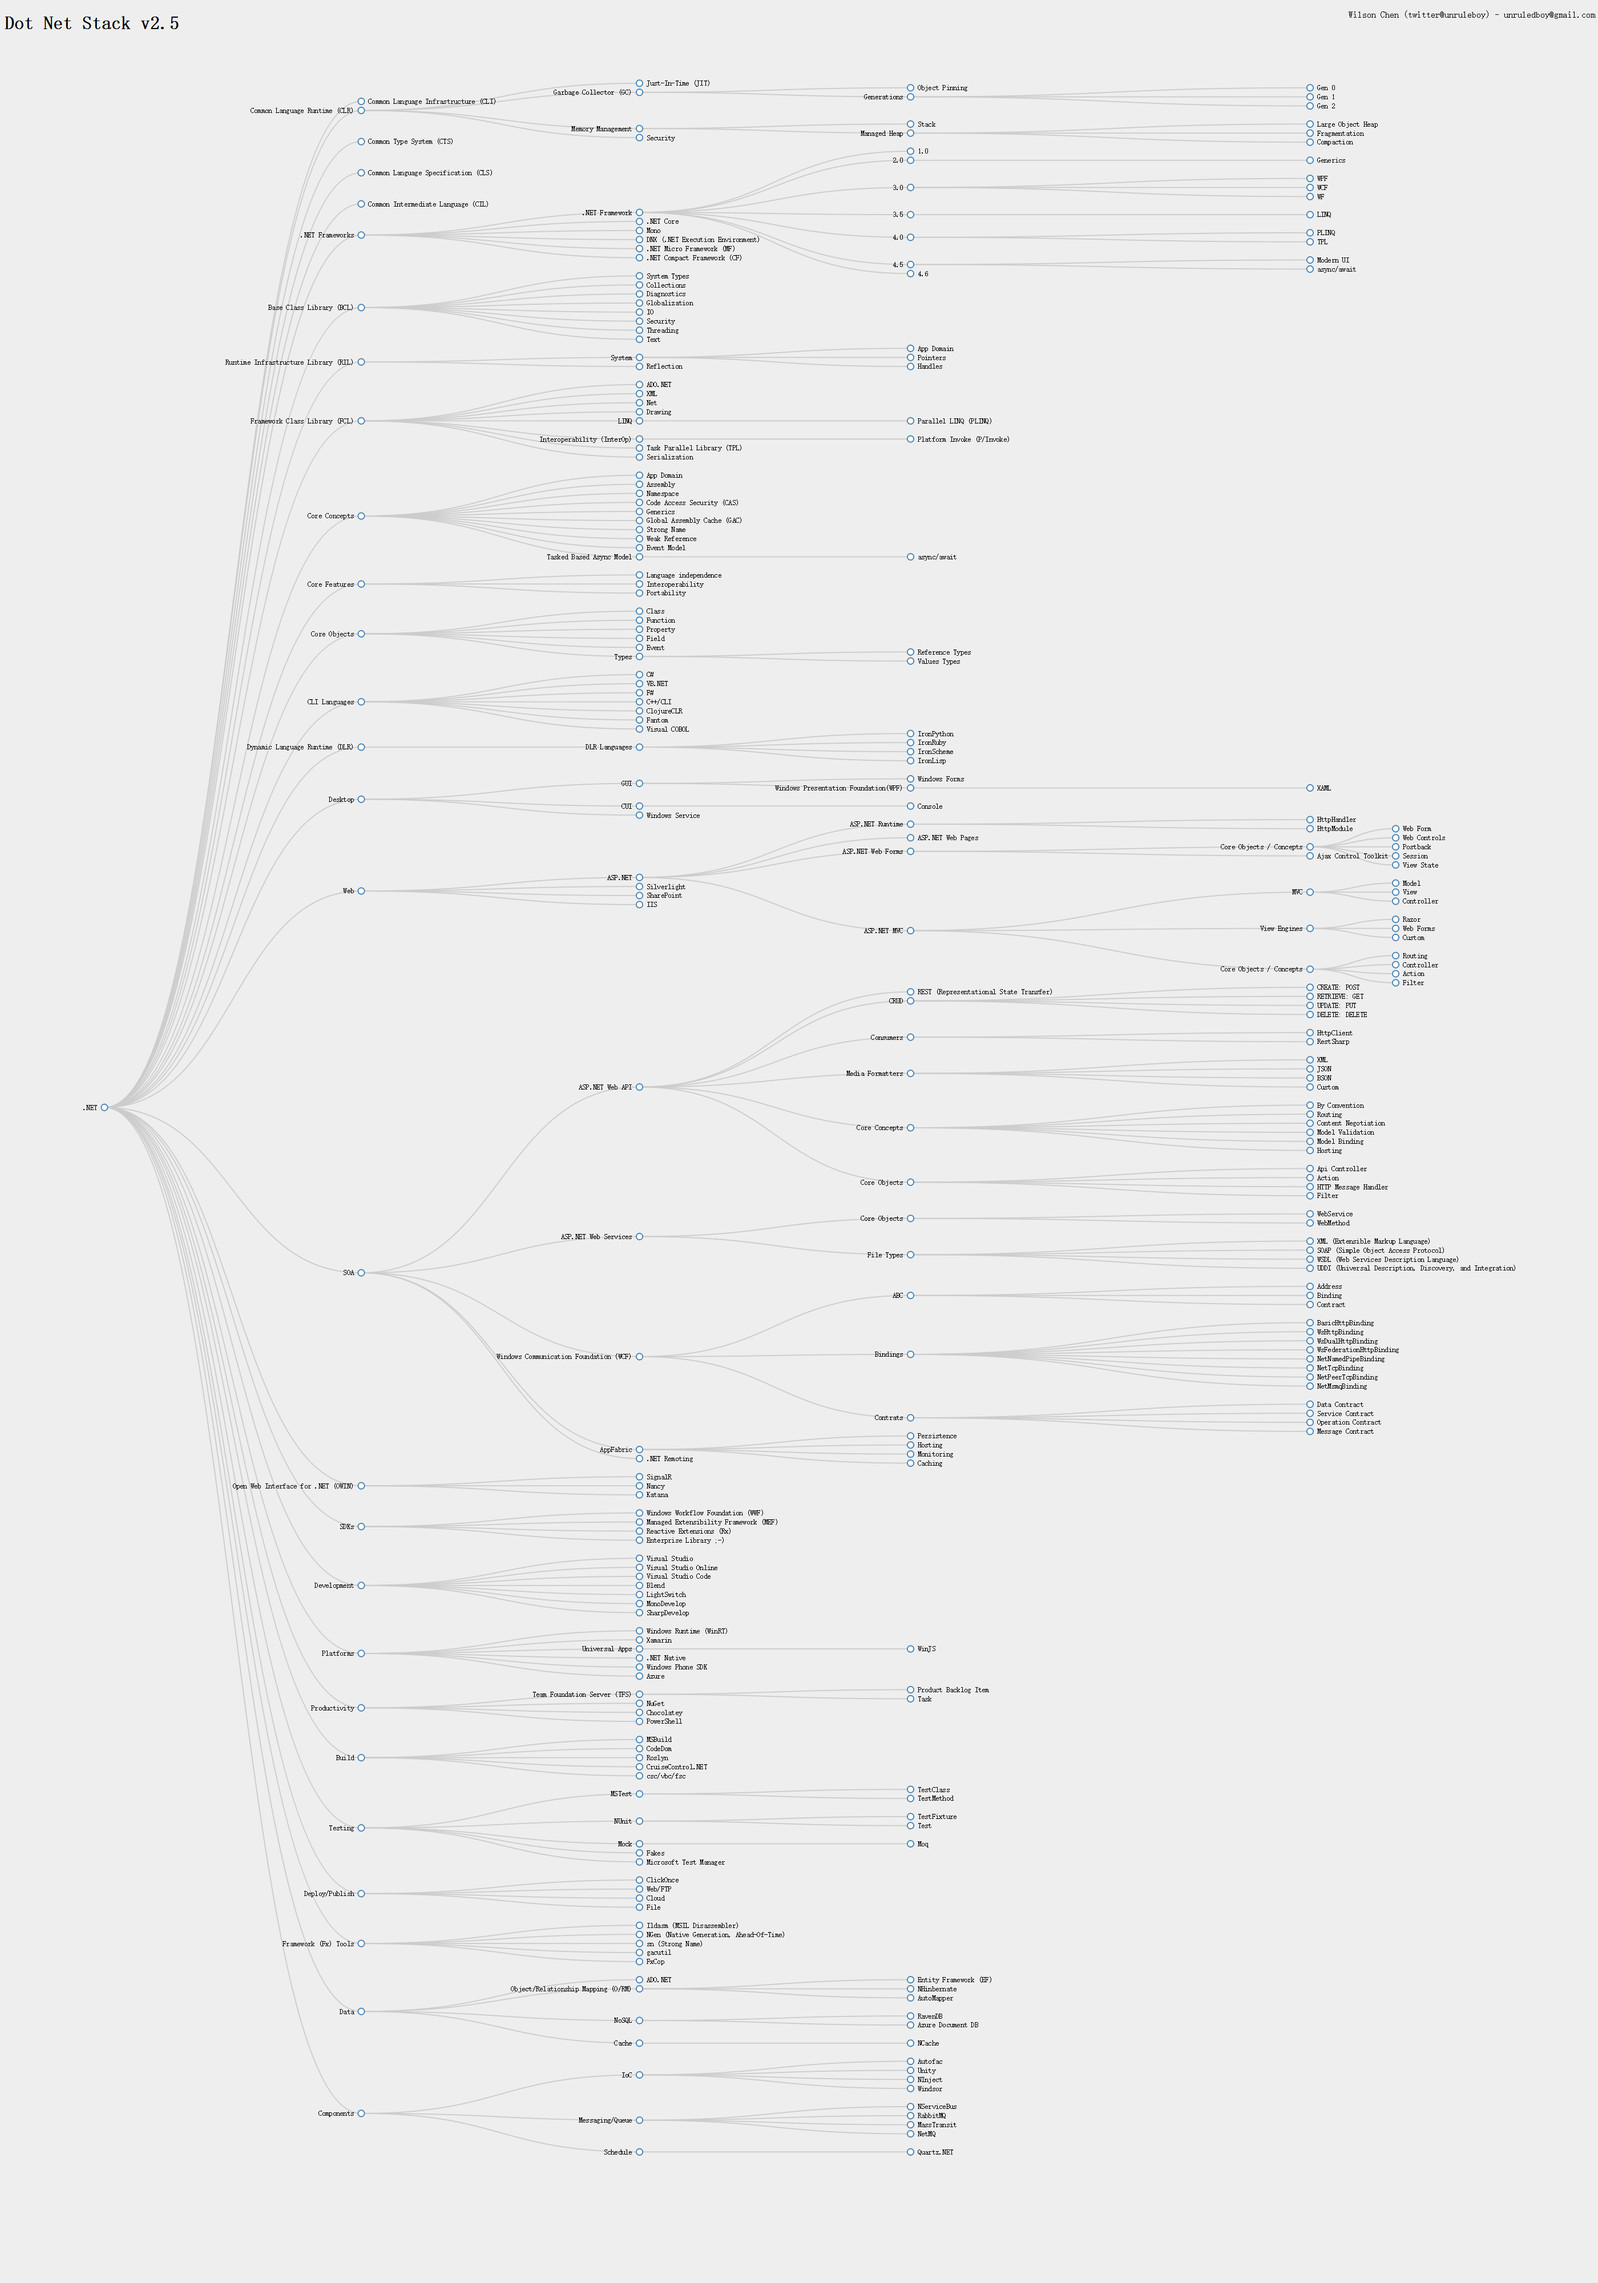
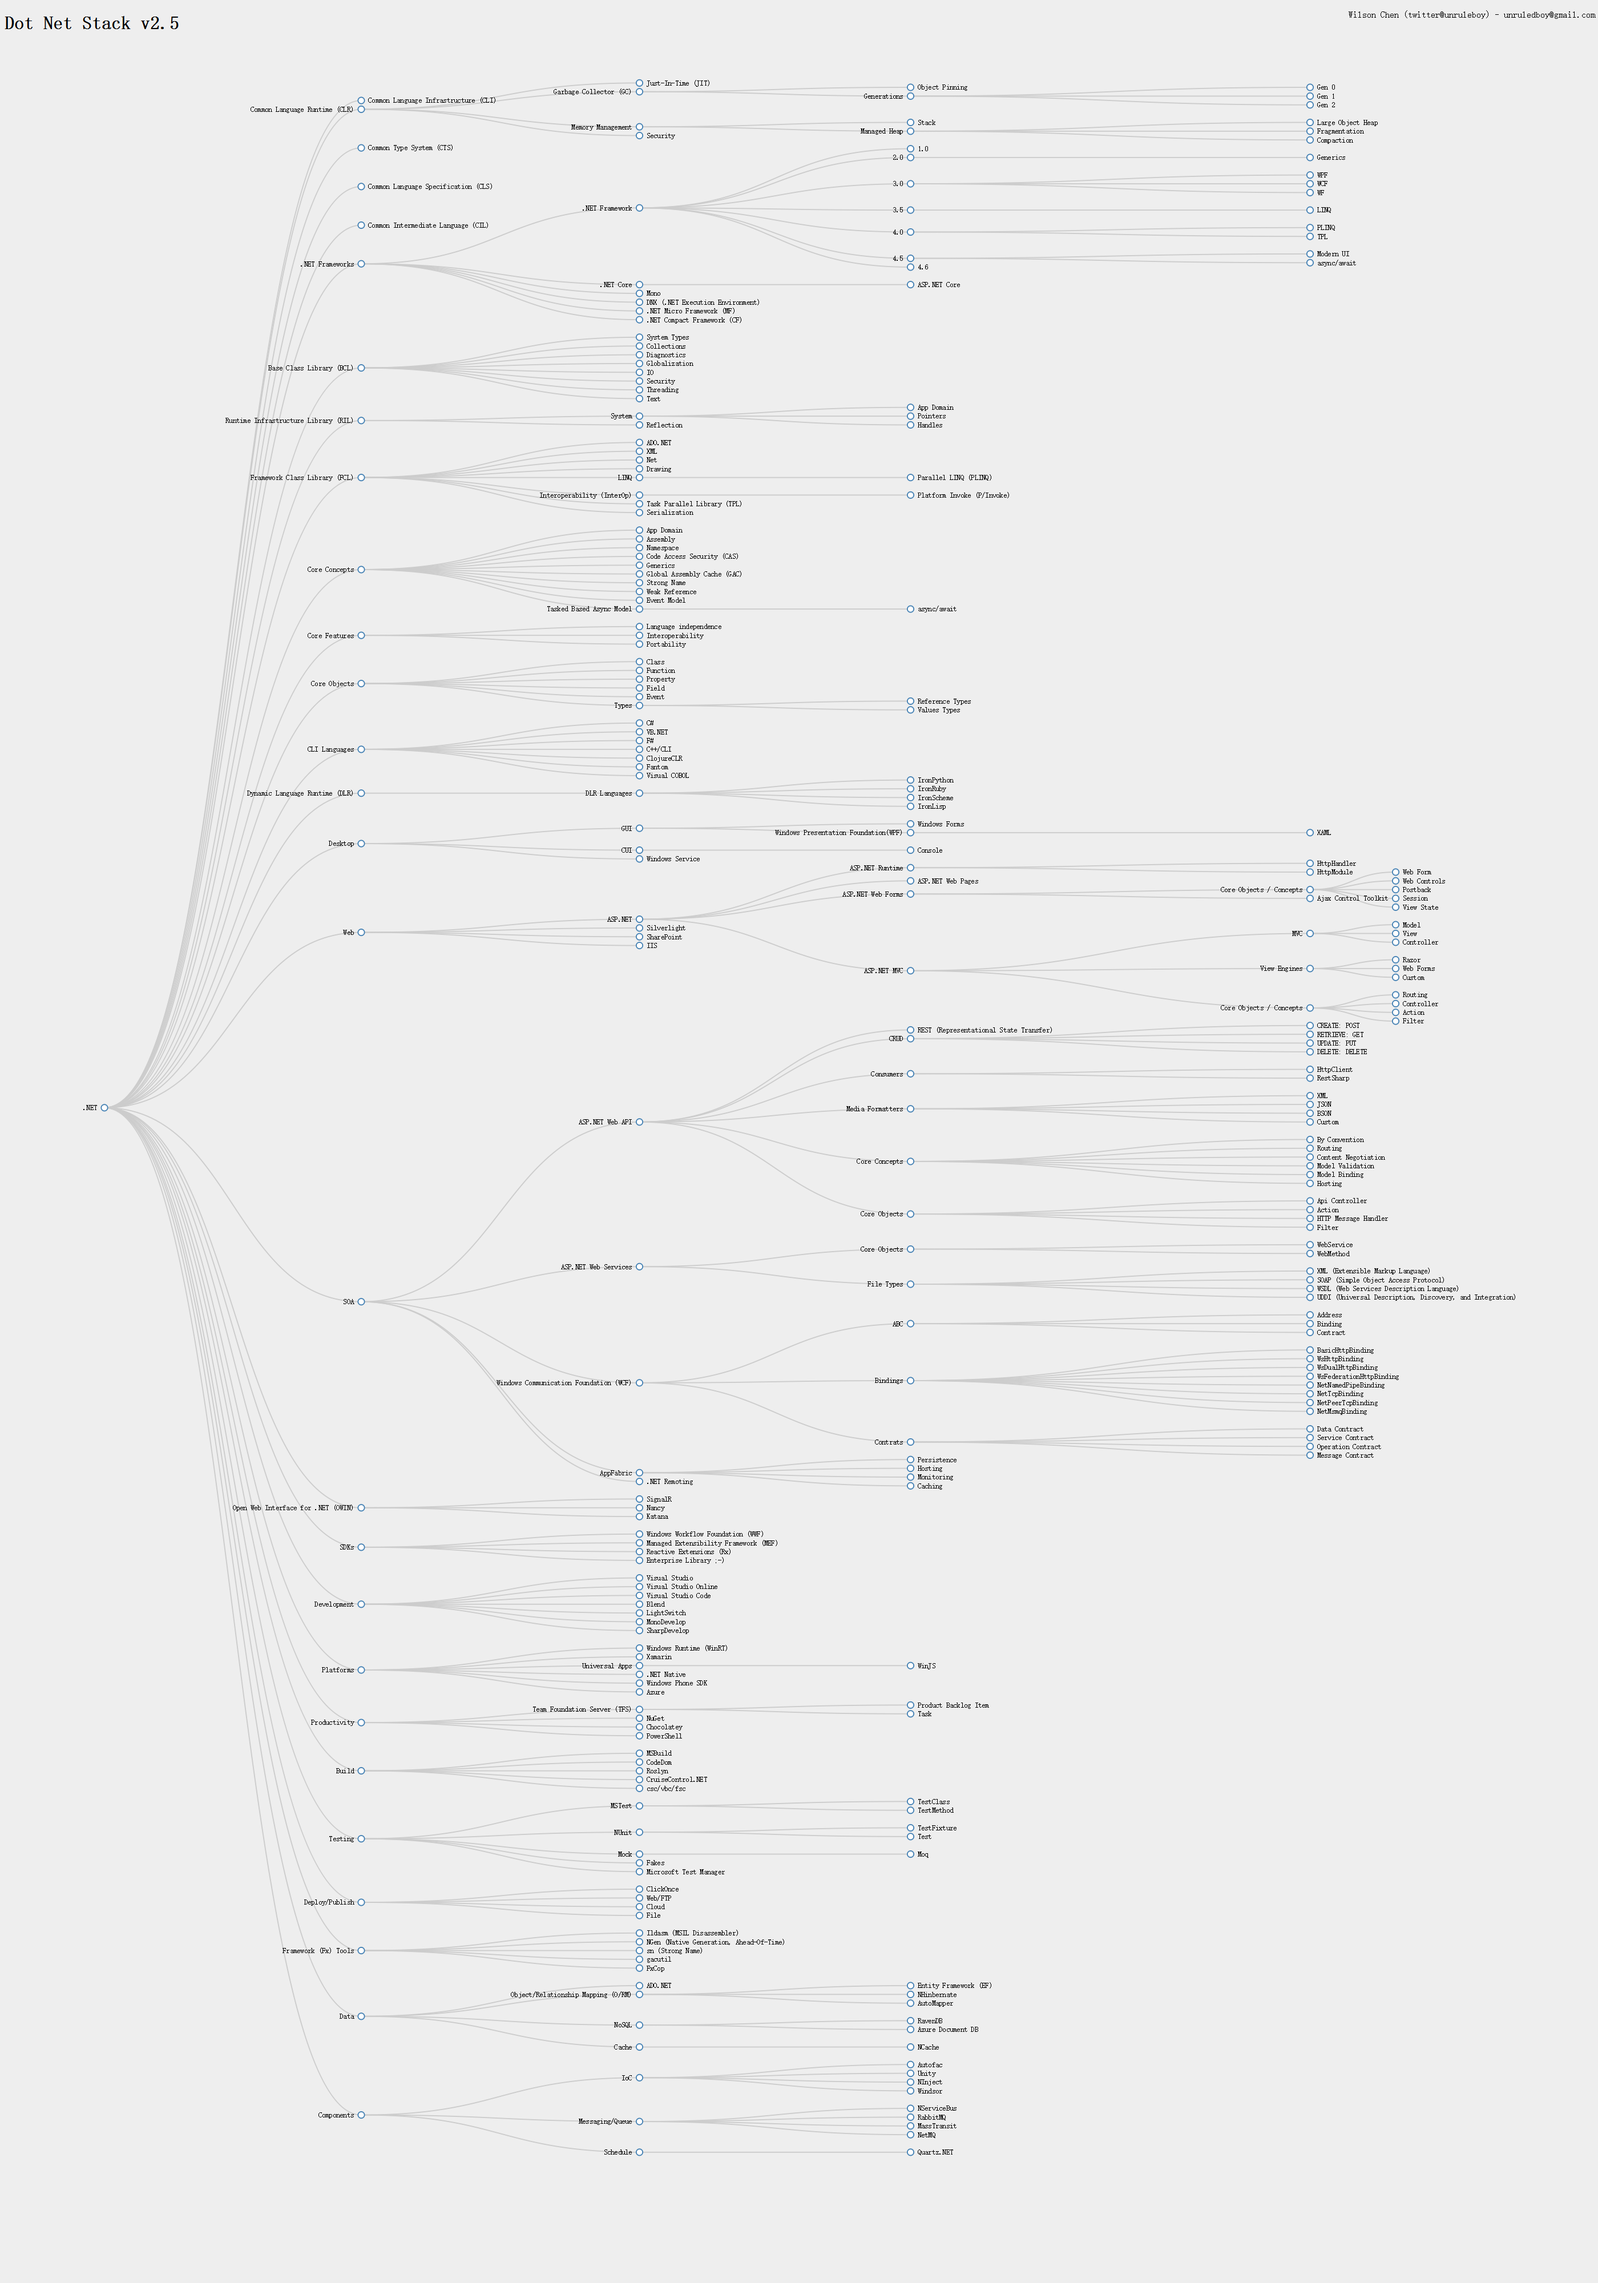
added .net core

diff --git a/README.md b/README.md
@@ -71,6 +71,7 @@ https://rawgit.com/unruledboy/DotNetStack/master/ux/DotNetStack.htm
 				- async/await
 			- 4.6
 		- .NET Core
+			- ASP.NET Core
 		- Mono
 		- DNX (.NET Execution Environment)
 		- .NET Micro Framework (MF)
